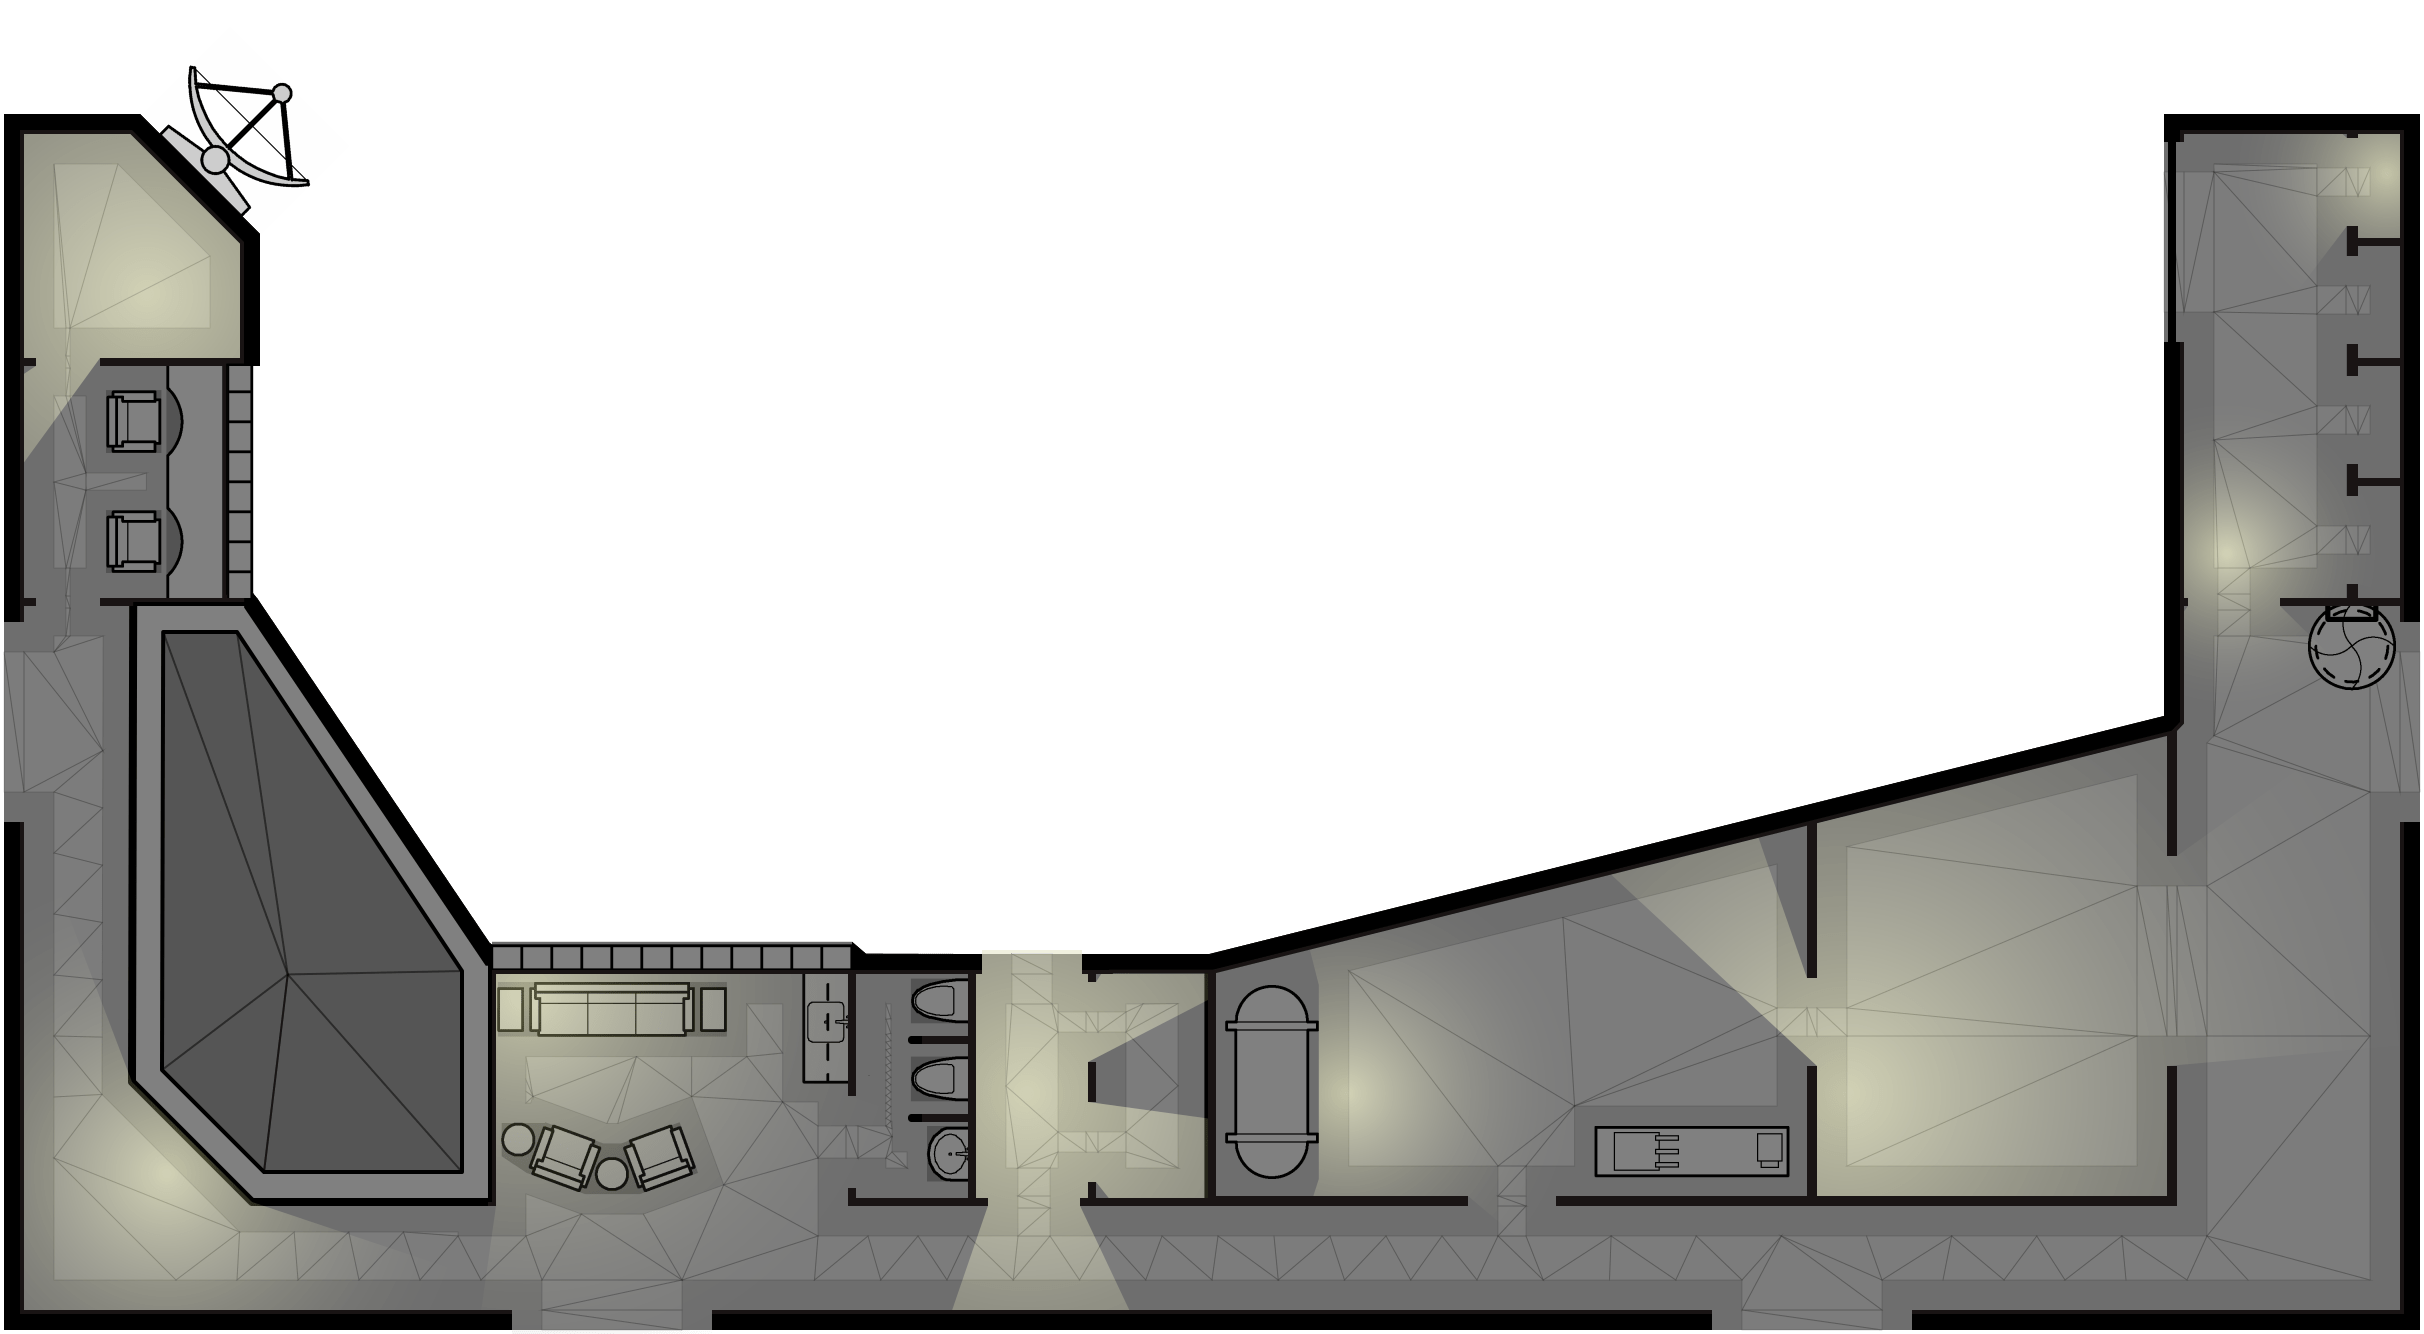
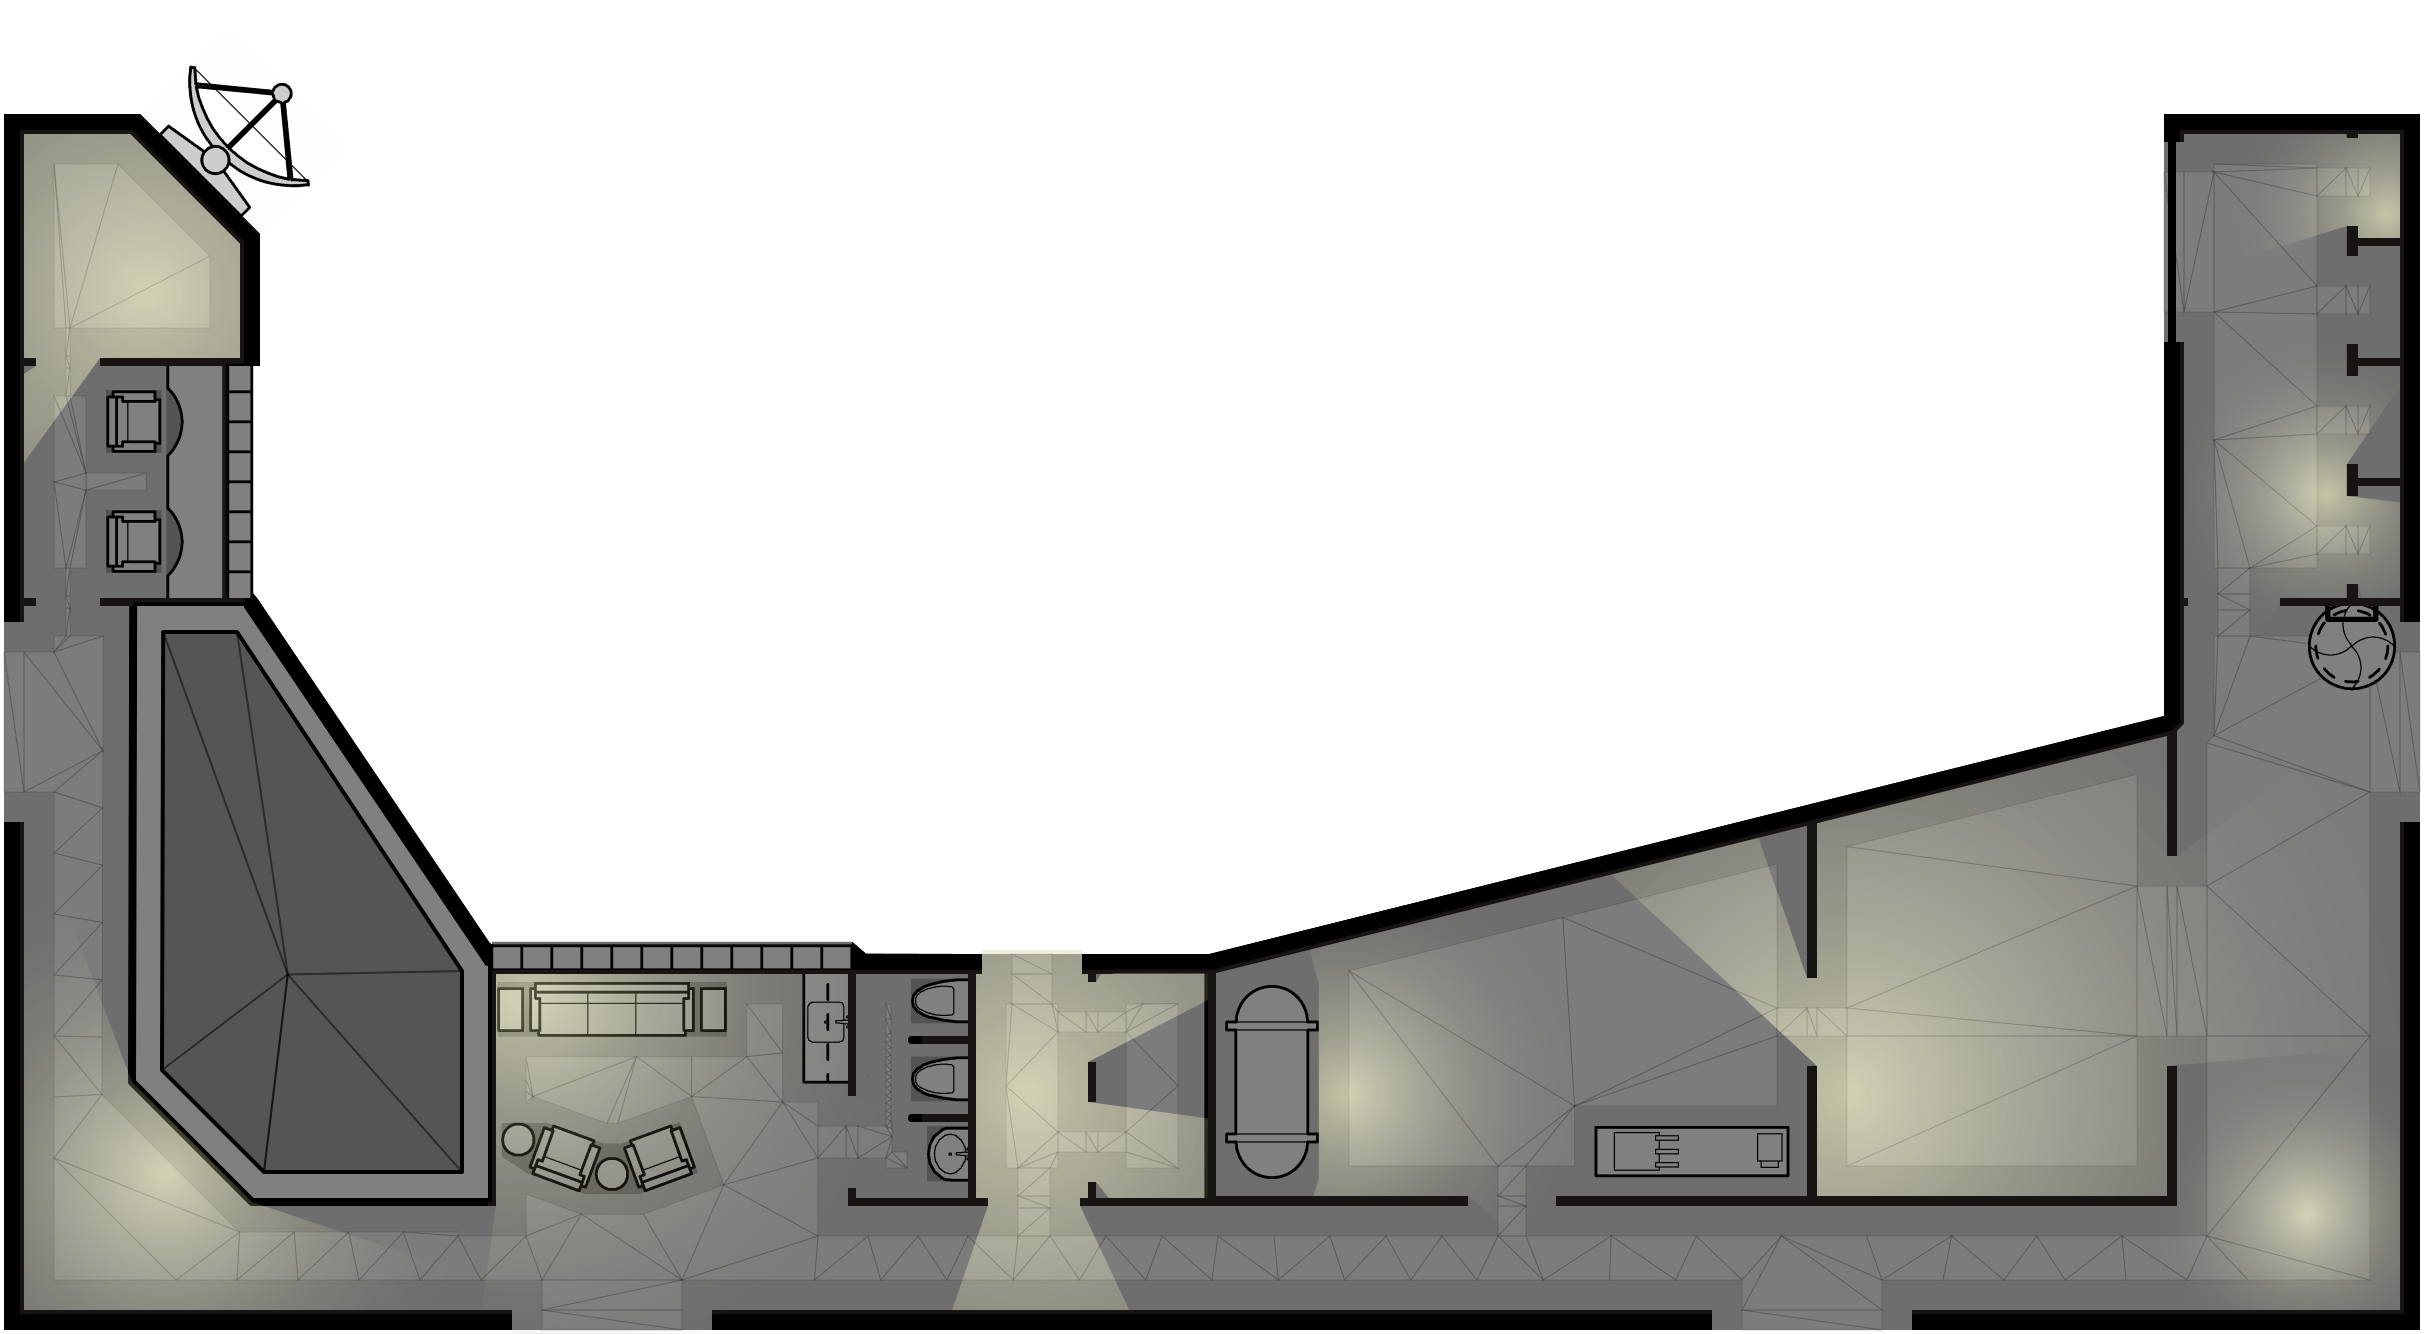
feat: avoid overlapping light rects (302)

Changed region(s): [[0.8973, 0.3073, 0.9901, 0.4918], [0.8973, 0.8298, 0.9901, 0.9835], [0.9592, 0.0922, 0.9901, 0.1844]]

diff --git a/docs/TODO.md b/docs/TODO.md
@@ -2,6 +2,10 @@
 
 ## In progress
 
+- BUG: Error: ENOENT: no such file or directory, lstat '.../static/assets/geomorph/g-302--xboat-repair-bay-fs8.png.tmp'
+  - in dev on-change file e.g. edit symbol
+  - try upgrade gatsby
+
 - ✅ silent fail on geomorph json parse error e.g. via missing field
   - We now log useQuery error field
 
@@ -62,12 +66,13 @@
       - ✅ diag doors ok if light src adjacent?
       - ✅ other bug: drawRects not going far enough
     - 🚧 avoid overlapping light rects
-      - 🚧 302 🚧 303 ✅ 101 ✅ 102
-    - support diagonal doors?
+      - ✅ 302 🚧 303 ✅ 101 ✅ 102
+      - don't forget lights can intersect if in same room
+    - ✅ support diagonal doors?
       - can avoid drawImage when other side not visible?
-    - handle hull doors
+    - ✅ handle hull doors by not allowing light thru them
   - GeomorphEdit shows light decompositions
-  - light through windows?
+  - ✅ light through windows? not an issue
   - ❌ canvas-based component draws unlit geomorph with doors?
 
 - review how `relate-connectors` extends visible rooms
